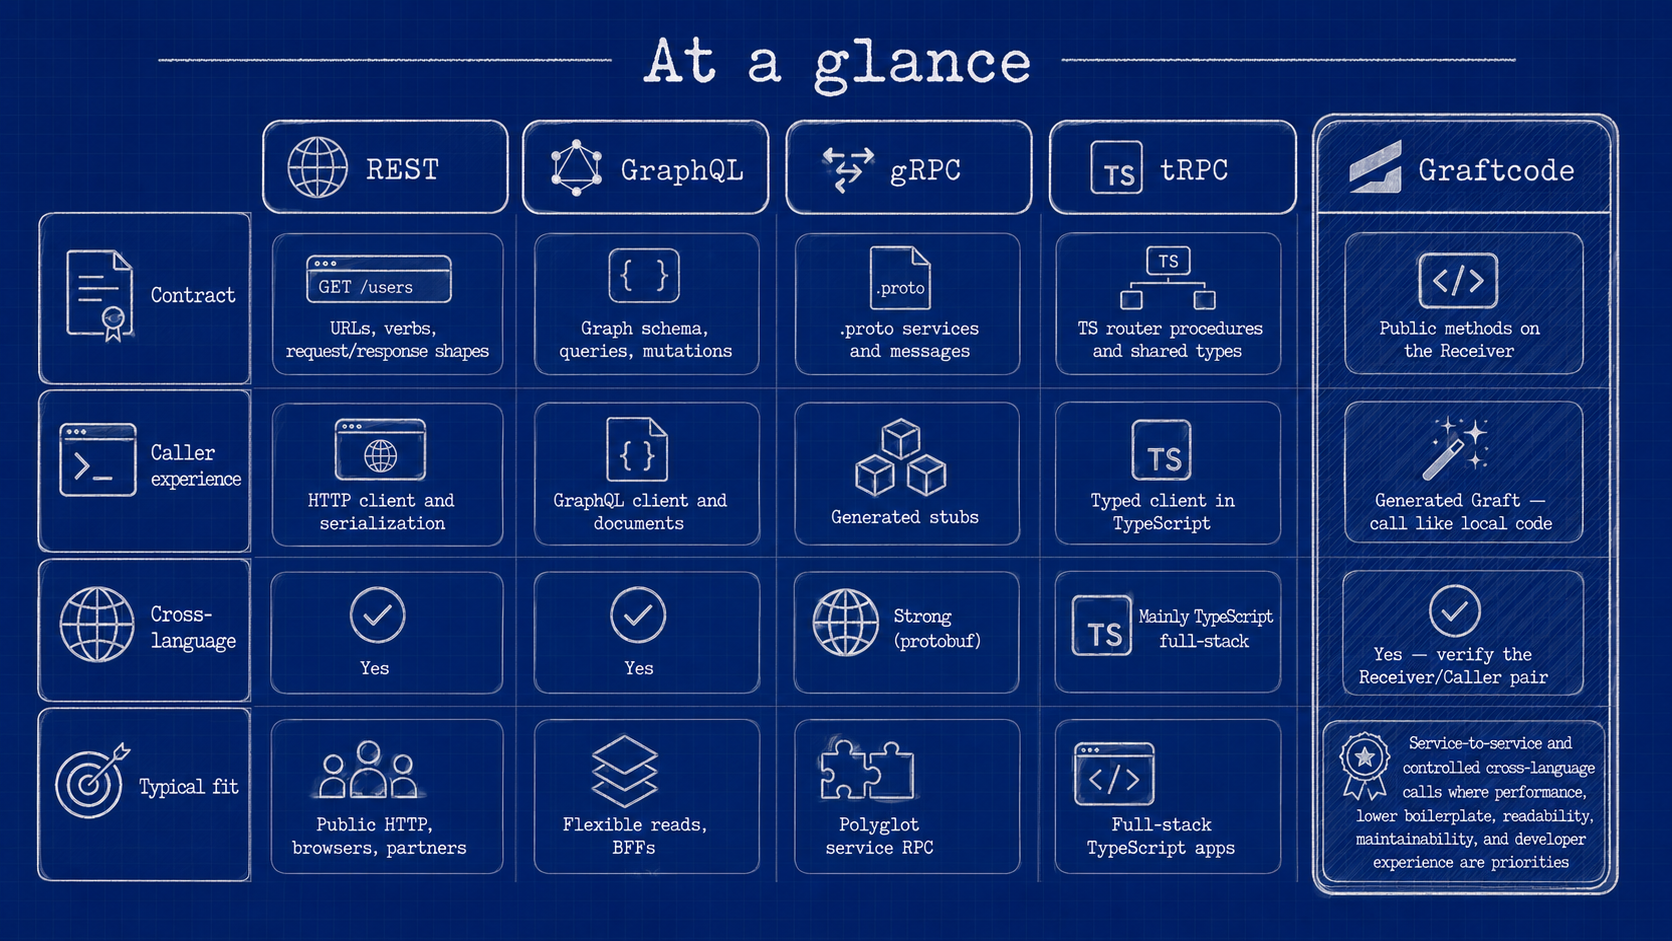
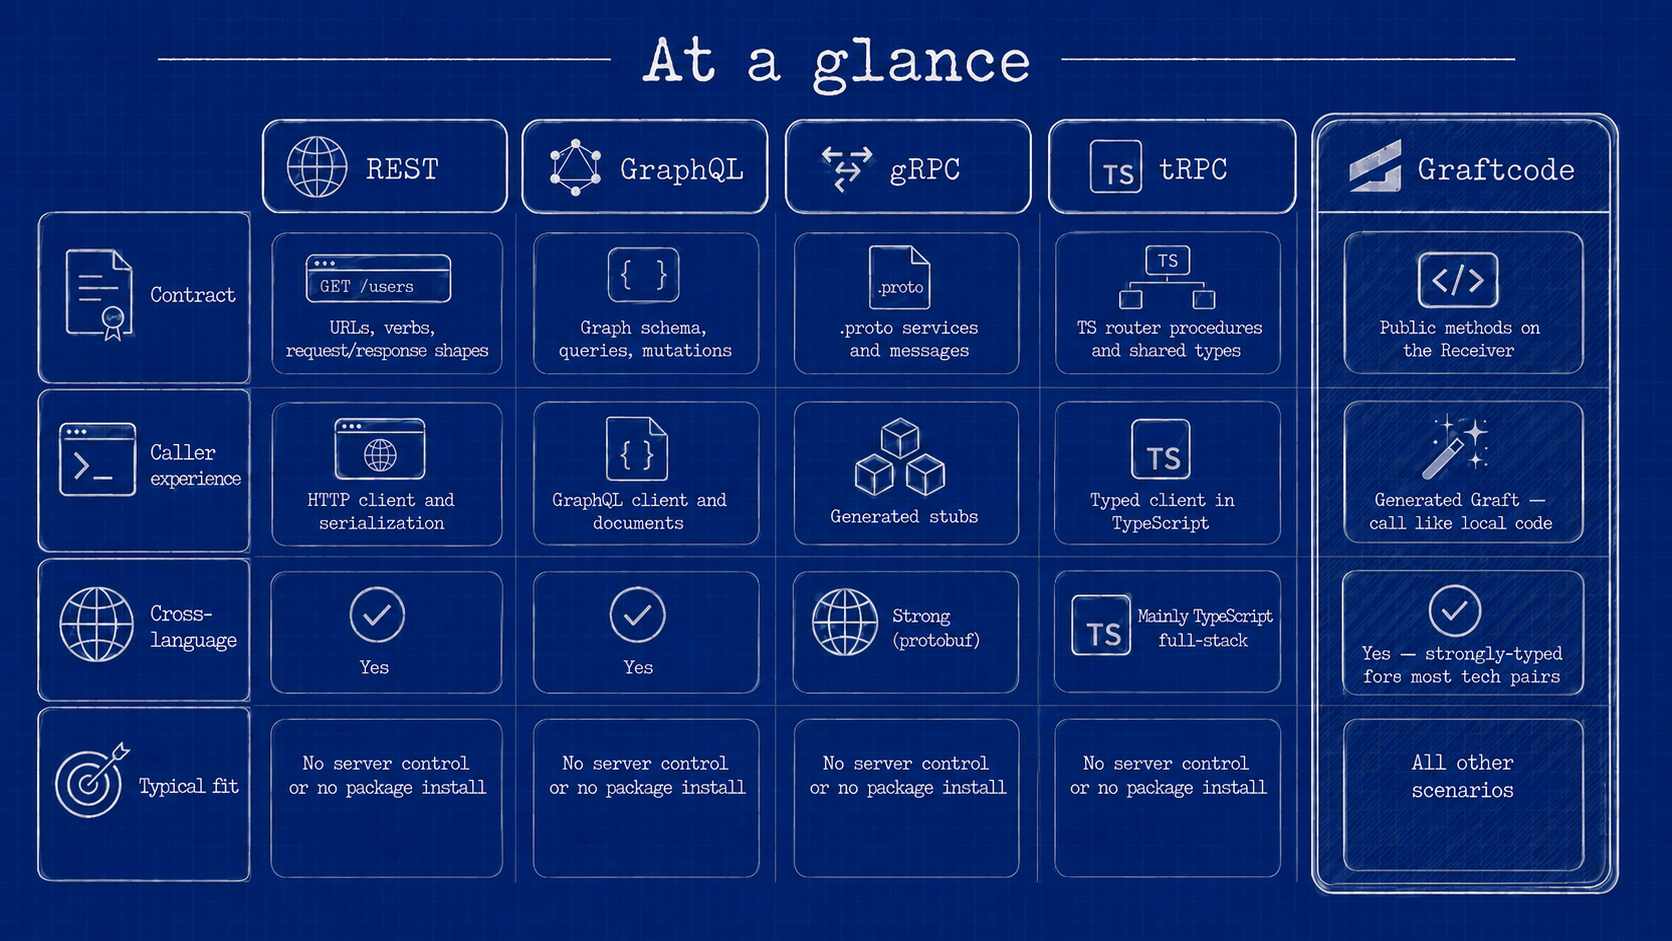
Update Graftcode documentation with new PNG diagrams for improved clarity and consistency. Revise text to better explain the integration process and the roles of Caller and Receiver services, ensuring accurate references to the updated diagrams.

diff --git a/docs/introduction/what-is-graftcode.md b/docs/introduction/what-is-graftcode.md
@@ -5,7 +5,7 @@ description: "What Graftcode is, a before/after example, protocol comparison, an
 
 # What is Graftcode?
 
-Graftcode connects two **services you write** — a **Caller** (calling) and a **Receiver** (called) —
+Graftcode connects two pieces of software you write — a **Caller** (calling) and a **Receiver** (called) —
 through a generated **Graft** that replaces hand-written integration layers. The Receiver's **public
 interface** becomes an installable package; the Caller installs it and calls it like local code.
 **Hypertube** carries the invocation to **Gateway**, which hosts the Receiver's **service business
@@ -18,23 +18,156 @@ For how Caller, Graft, Hypertube, Gateway, Receiver, Vision, and Graftcode Engin
 > first. This documentation explains concepts, procedures, and reference material—it does not replace
 > those step-by-step tutorials.
 
+## What Graftcode is for
+
+Graftcode's main goal is to **unify how software communicates and integrates** — regardless of the
+technologies involved or the integration scenario. It is not only for service-to-service calls. The
+same model covers:
+
+- **Frontend to backend** — a web or mobile frontend calls backend methods directly.
+- **Backend to backend** — service-to-service calls across languages.
+- **Expose a public API** — expose selected methods to controlled callers.
+- **Mix modules in memory** — run modules from different technologies in one process.
+- **Expose methods for AI** — every exposed method is also callable as an MCP tool.
+
+It applies the same way to **stateless, stateful, streaming, bi-directional (duplex), and unary**
+interactions. In every case the model is the same:
+
+- **On the Receiver (server) side**, integration code is reduced to **plain public methods** — no
+  controllers, routes, DTOs, or transport clients.
+- **On the Caller (client) side**, you install a **self-updating, strongly typed
+  [Graft](../core-concepts/what-is-a-graft.md)** through your normal package manager and call those
+  methods like local code. When the Receiver's contract changes, you regenerate and reinstall the
+  Graft, so the client stays in sync with the server through a versioned package.
+
+Because the integration method is selected by configuration rather than written into your code, you can
+**swap the communication channel** (in-memory, WebSocket, and other transports) without touching
+business logic — see [Execution modes](../core-concepts/in-memory-same-machine-and-remote-execution.md).
+
+### Every exposed method is also an MCP tool
+
+Methods you expose through Graftcode are automatically callable over **MCP** as well, so the same
+public surface serves both application callers and AI clients without extra integration code. See
+[Expose Receiver methods for MCP](../how-to-guides/expose-receiver-methods-for-mcp.md).
+
 ## Example: calling a billing method across services
 
 **The problem:** a Node.js application needs `calculateMonthlyBill(unitPrice, units)`, which lives in
 a .NET service owned by another team.
 
-### Without Graftcode (typical REST or GraphQL integration)
+### Without Graftcode: controller with routes + hand-written client
 
-A separate integration layer usually appears between business code and the remote capability:
+**Server side** — the capability is wrapped in an HTTP controller with routes, attributes, and
+request/response DTOs:
 
-1. Agree an HTTP or GraphQL contract (OpenAPI, schema, versioning rules).
-2. Generate or hand-write a client, DTOs, and error mapping.
-3. Build URLs or queries, serialize payloads, and parse responses on every call.
-4. Maintain that layer when the contract changes.
+```multi
+```dotnet
+// Illustrative REST controller — not Graftcode
+[ApiController]
+[Route("api/v1/billing")]
+public class BillingController : ControllerBase
+{
+    private readonly BillingService _billing;
 
+    [HttpPost("monthly-bill")]
+    public ActionResult<MonthlyBillResponse> CalculateMonthlyBill([FromBody] MonthlyBillRequest request)
+    {
+        var total = _billing.CalculateMonthlyBill(request.UnitPrice, request.Units);
+        return Ok(new MonthlyBillResponse { Total = total });
+    }
+}
+
+public class MonthlyBillRequest { public decimal UnitPrice { get; set; } public int Units { get; set; } }
+public class MonthlyBillResponse { public decimal Total { get; set; } }
+```
 ```javascript
-// Illustrative REST-style Caller code — not Graftcode
-const response = await fetch("https://billing.example/api/v1/monthly-bill", {
+// Illustrative Express controller — not Graftcode
+import express from "express";
+const app = express();
+app.use(express.json());
+
+app.post("/api/v1/billing/monthly-bill", (req, res) => {
+  const { unitPrice, units } = req.body;
+  const total = billing.calculateMonthlyBill(unitPrice, units);
+  res.json({ total });
+});
+```
+```python
+# Illustrative FastAPI controller — not Graftcode
+from fastapi import FastAPI
+from pydantic import BaseModel
+
+app = FastAPI()
+
+class MonthlyBillRequest(BaseModel):
+    unit_price: float
+    units: int
+
+@app.post("/api/v1/billing/monthly-bill")
+def calculate_monthly_bill(request: MonthlyBillRequest):
+    total = billing.calculate_monthly_bill(request.unit_price, request.units)
+    return {"total": total}
+```
+```java
+// Illustrative Spring controller — not Graftcode
+@RestController
+@RequestMapping("/api/v1/billing")
+public class BillingController {
+    private final BillingService billing;
+
+    @PostMapping("/monthly-bill")
+    public MonthlyBillResponse calculateMonthlyBill(@RequestBody MonthlyBillRequest request) {
+        double total = billing.calculateMonthlyBill(request.getUnitPrice(), request.getUnits());
+        return new MonthlyBillResponse(total);
+    }
+}
+```
+```php
+// Illustrative Laravel controller — not Graftcode
+class BillingController extends Controller
+{
+    public function calculateMonthlyBill(Request $request)
+    {
+        $total = $this->billing->calculateMonthlyBill(
+            $request->input('unitPrice'),
+            $request->input('units')
+        );
+        return response()->json(['total' => $total]);
+    }
+}
+// routes/api.php:
+// Route::post('/v1/billing/monthly-bill', [BillingController::class, 'calculateMonthlyBill']);
+```
+```ruby
+# Illustrative Rails controller — not Graftcode
+class BillingController < ApplicationController
+  def calculate_monthly_bill
+    total = Billing.calculate_monthly_bill(params[:unit_price], params[:units])
+    render json: { total: total }
+  end
+end
+# config/routes.rb:
+# post "/api/v1/billing/monthly-bill", to: "billing#calculate_monthly_bill"
+```
+```
+
+**Client side** — the caller hand-writes an HTTP client: URL, headers, serialization, and status
+handling on every call:
+
+```multi
+```dotnet
+// Illustrative REST client — not Graftcode
+using var http = new HttpClient();
+http.DefaultRequestHeaders.Authorization = new("Bearer", token);
+var res = await http.PostAsJsonAsync(
+    "https://billing.example/api/v1/billing/monthly-bill",
+    new { unitPrice = 10, units = 5 });
+res.EnsureSuccessStatusCode();
+var total = (await res.Content.ReadFromJsonAsync<MonthlyBillResponse>()).Total;
+```
+```javascript
+// Illustrative REST client — not Graftcode
+const response = await fetch("https://billing.example/api/v1/billing/monthly-bill", {
   method: "POST",
   headers: { "Content-Type": "application/json", Authorization: `Bearer ${token}` },
   body: JSON.stringify({ unitPrice: 10, units: 5 }),
@@ -42,22 +175,145 @@ const response = await fetch("https://billing.example/api/v1/monthly-bill", {
 if (!response.ok) throw new Error(`HTTP ${response.status}`);
 const { total } = await response.json();
 ```
+```python
+# Illustrative REST client — not Graftcode
+import requests
 
-### With Graftcode
+res = requests.post(
+    "https://billing.example/api/v1/billing/monthly-bill",
+    json={"unitPrice": 10, "units": 5},
+    headers={"Authorization": f"Bearer {token}"},
+)
+res.raise_for_status()
+total = res.json()["total"]
+```
+```java
+// Illustrative REST client — not Graftcode
+HttpClient client = HttpClient.newHttpClient();
+HttpRequest request = HttpRequest.newBuilder()
+    .uri(URI.create("https://billing.example/api/v1/billing/monthly-bill"))
+    .header("Content-Type", "application/json")
+    .header("Authorization", "Bearer " + token)
+    .POST(HttpRequest.BodyPublishers.ofString("{\"unitPrice\":10,\"units\":5}"))
+    .build();
+HttpResponse<String> response = client.send(request, HttpResponse.BodyHandlers.ofString());
+// parse response.body() for "total"
+```
+```php
+// Illustrative REST client — not Graftcode
+$ch = curl_init("https://billing.example/api/v1/billing/monthly-bill");
+curl_setopt_array($ch, [
+    CURLOPT_POST => true,
+    CURLOPT_HTTPHEADER => ["Content-Type: application/json", "Authorization: Bearer $token"],
+    CURLOPT_POSTFIELDS => json_encode(["unitPrice" => 10, "units" => 5]),
+    CURLOPT_RETURNTRANSFER => true,
+]);
+$total = json_decode(curl_exec($ch), true)["total"];
+```
+```ruby
+# Illustrative REST client — not Graftcode
+require "net/http"
+require "json"
 
-1. The .NET team exposes a plain public method on a class library (the **Receiver**).
-2. **Gateway** hosts that built module, discovers the [callable surface](../core-concepts/callable-surface.md),
-   and publishes it for [package generation](../core-concepts/package-generation.md).
-3. The Node team installs the generated **Graft** and calls it like local code.
+uri = URI("https://billing.example/api/v1/billing/monthly-bill")
+res = Net::HTTP.post(uri, { unitPrice: 10, units: 5 }.to_json,
+                     "Content-Type" => "application/json",
+                     "Authorization" => "Bearer #{token}")
+total = JSON.parse(res.body)["total"]
+```
+```
 
+### With Graftcode: clean public method + installed Graft
+
+**Server side (Receiver)** — a plain public method. No controller, route, or DTO plumbing:
+
+```multi
+```dotnet
+public class BillingService
+{
+    public decimal CalculateMonthlyBill(decimal unitPrice, int units) => unitPrice * units;
+}
+```
 ```javascript
-// Illustrative Graftcode Caller — copy package name and host from Vision
+export class BillingService {
+  static calculateMonthlyBill(unitPrice, units) {
+    return unitPrice * units;
+  }
+}
+```
+```python
+class BillingService:
+    @staticmethod
+    def calculate_monthly_bill(unit_price, units):
+        return unit_price * units
+```
+```java
+public class BillingService {
+    public double calculateMonthlyBill(double unitPrice, int units) {
+        return unitPrice * units;
+    }
+}
+```
+```php
+class BillingService {
+    public function calculateMonthlyBill(float $unitPrice, int $units): float {
+        return $unitPrice * $units;
+    }
+}
+```
+```ruby
+class BillingService
+  def self.calculate_monthly_bill(unit_price, units)
+    unit_price * units
+  end
+end
+```
+```
+
+**Client side (Caller)** — install the generated Graft and call the method like local code:
+
+```multi
+```dotnet
+// Install the Graft; copy package name and host from Vision
+GraftConfig.Host = "ws://billing.example/ws"; // before the first call
+var billing = new BillingService();
+var total = billing.CalculateMonthlyBill(10, 5);
+```
+```javascript
+// Install the Graft; copy package name and host from Vision
 import { BillingService } from "<package-from-vision>";
 import { GraftConfig } from "<package-from-vision>/config.js";
 
 GraftConfig.host = "ws://billing.example/ws"; // before the first call
 const total = BillingService.calculateMonthlyBill(10, 5);
 ```
+```python
+# Install the Graft; copy package name and host from Vision
+GraftConfig.host = "ws://billing.example/ws"  # before the first call
+total = BillingService.calculate_monthly_bill(10, 5)
+```
+```java
+// Install the Graft; copy package name and host from Vision
+GraftConfig.setHost("ws://billing.example/ws"); // before the first call
+BillingService billing = new BillingService();
+double total = billing.calculateMonthlyBill(10, 5);
+```
+```php
+// Install the Graft; copy package name and host from Vision
+GraftConfig::$host = "ws://billing.example/ws"; // before the first call
+$billing = new BillingService();
+$total = $billing->calculateMonthlyBill(10, 5);
+```
+```ruby
+# Install the Graft; copy package name and host from Vision
+GraftConfig.host = "ws://billing.example/ws" # before the first call
+total = BillingService.calculate_monthly_bill(10, 5)
+```
+```
+
+**Gateway** hosts the built module, discovers the
+[callable surface](../core-concepts/callable-surface.md), and publishes it for
+[package generation](../core-concepts/package-generation.md); the Caller installs the resulting Graft.
 
 No hand-written HTTP client, route map, or JSON DTO layer for this internal call—the public method
 signature is the contract, and the installed Graft is the client. You still operate a distributed
@@ -66,6 +322,30 @@ callers that can install generated packages.
 
 For a public HTTP API aimed at arbitrary third parties, REST or GraphQL may remain the better
 boundary—see [Use Graftcode alongside REST](../how-to-guides/use-graftcode-alongside-an-existing-rest-api.md).
+
+## Why this matters
+
+Reducing integration to public methods on the server and a generated Graft on the client changes how
+the whole codebase reads and evolves:
+
+- **Readability** — call sites are ordinary method calls, so code expresses intent instead of
+  transport plumbing.
+- **Direct model mapping** — public methods map directly to UML class, interaction, and sequence
+  diagrams, because there is no protocol layer in between.
+- **Simpler PRs and code review** — changes appear as business-logic diffs, not controller, DTO, and
+  client boilerplate.
+- **Maintainability** — fewer artifacts to keep in sync; a changed public method flows to callers as a
+  regenerated package.
+- **Channel independence** — business code is fully isolated from the integration method, so you can
+  change transport or execution mode by configuration rather than by rewriting code.
+
+### AI-assisted code engineering
+
+The same reduction in code and indirection makes a codebase far friendlier to AI-assisted development.
+With no separate protocol layer and much less integration boilerplate, an AI assistant ingests less
+code to understand a feature, follows the call graph more directly, and needs fewer iterations and less
+context to make a correct change. In practice that means lower token usage, faster refactoring, cheaper
+generation and maintenance, and fewer integration mistakes.
 
 ## How this differs from REST, GraphQL, gRPC, and tRPC
 
@@ -86,8 +366,8 @@ working cross-language call.
 ![Protocol-vs-method](../../assets/diagrams/protcol-vs-method.png)
 
 REST, GraphQL, gRPC, and tRPC are strong choices for **public boundaries** and ecosystems where those
-tools are already standard. Graftcode fits **service-to-service** and **controlled internal** callers
-that should not maintain a hand-written integration layer.
+tools are already standard. Graftcode fits **frontend-to-backend, service-to-service, and controlled
+internal** callers that should not maintain a hand-written integration layer.
 
 ### At a glance
 
@@ -121,10 +401,12 @@ reproducible benchmark.
 
 ## Where teams use Graftcode
 
-- Service-to-service calls across languages, without hand-written HTTP clients.
-- Sharing a Receiver library with internal or controlled Callers.
-- Flipping the same code between in-memory and remote execution by configuration.
-- Exposing Receiver methods as MCP tools.
+- **Frontend to backend** — call backend methods from a web or mobile frontend.
+- **Backend to backend** — service-to-service calls across languages, without hand-written HTTP clients.
+- **Expose a public API** — share a Receiver's selected methods with controlled Callers.
+- **Mix modules in memory** — run modules from different technologies in one process, then flip to
+  remote execution by configuration.
+- **Expose methods for AI** — make the same methods callable as MCP tools.
 
 Pick your goal and runtime in [Choose a scenario](choose-your-scenario.md), and review
 [current status and limitations](where-does-graftcode-fit.md) before production.

diff --git a/docs/reference/project-key-registry-host-and-credentials.md b/docs/reference/project-key-registry-host-and-credentials.md
@@ -10,7 +10,7 @@ Four Graftcode concepts are easy to confuse. They are **separate** and serve dif
 > **Project Key** registers the Gateway in a project. The **registry URL** installs the Graft. The
 > **runtime host** executes methods. The **call credential** authorizes a specific call.
 
-![Project Key registers the Gateway, the registry URL installs the Graft, the runtime host executes methods, and the call credential authorizes a specific call](../../assets/diagrams/identifiers-and-auth.svg)
+![Project Key registers the Gateway, the registry URL installs the Graft, the runtime host executes methods, and the call credential authorizes a specific call](../../assets/diagrams/identifiers-and-auth.png)
 
 ## The canonical table
 
